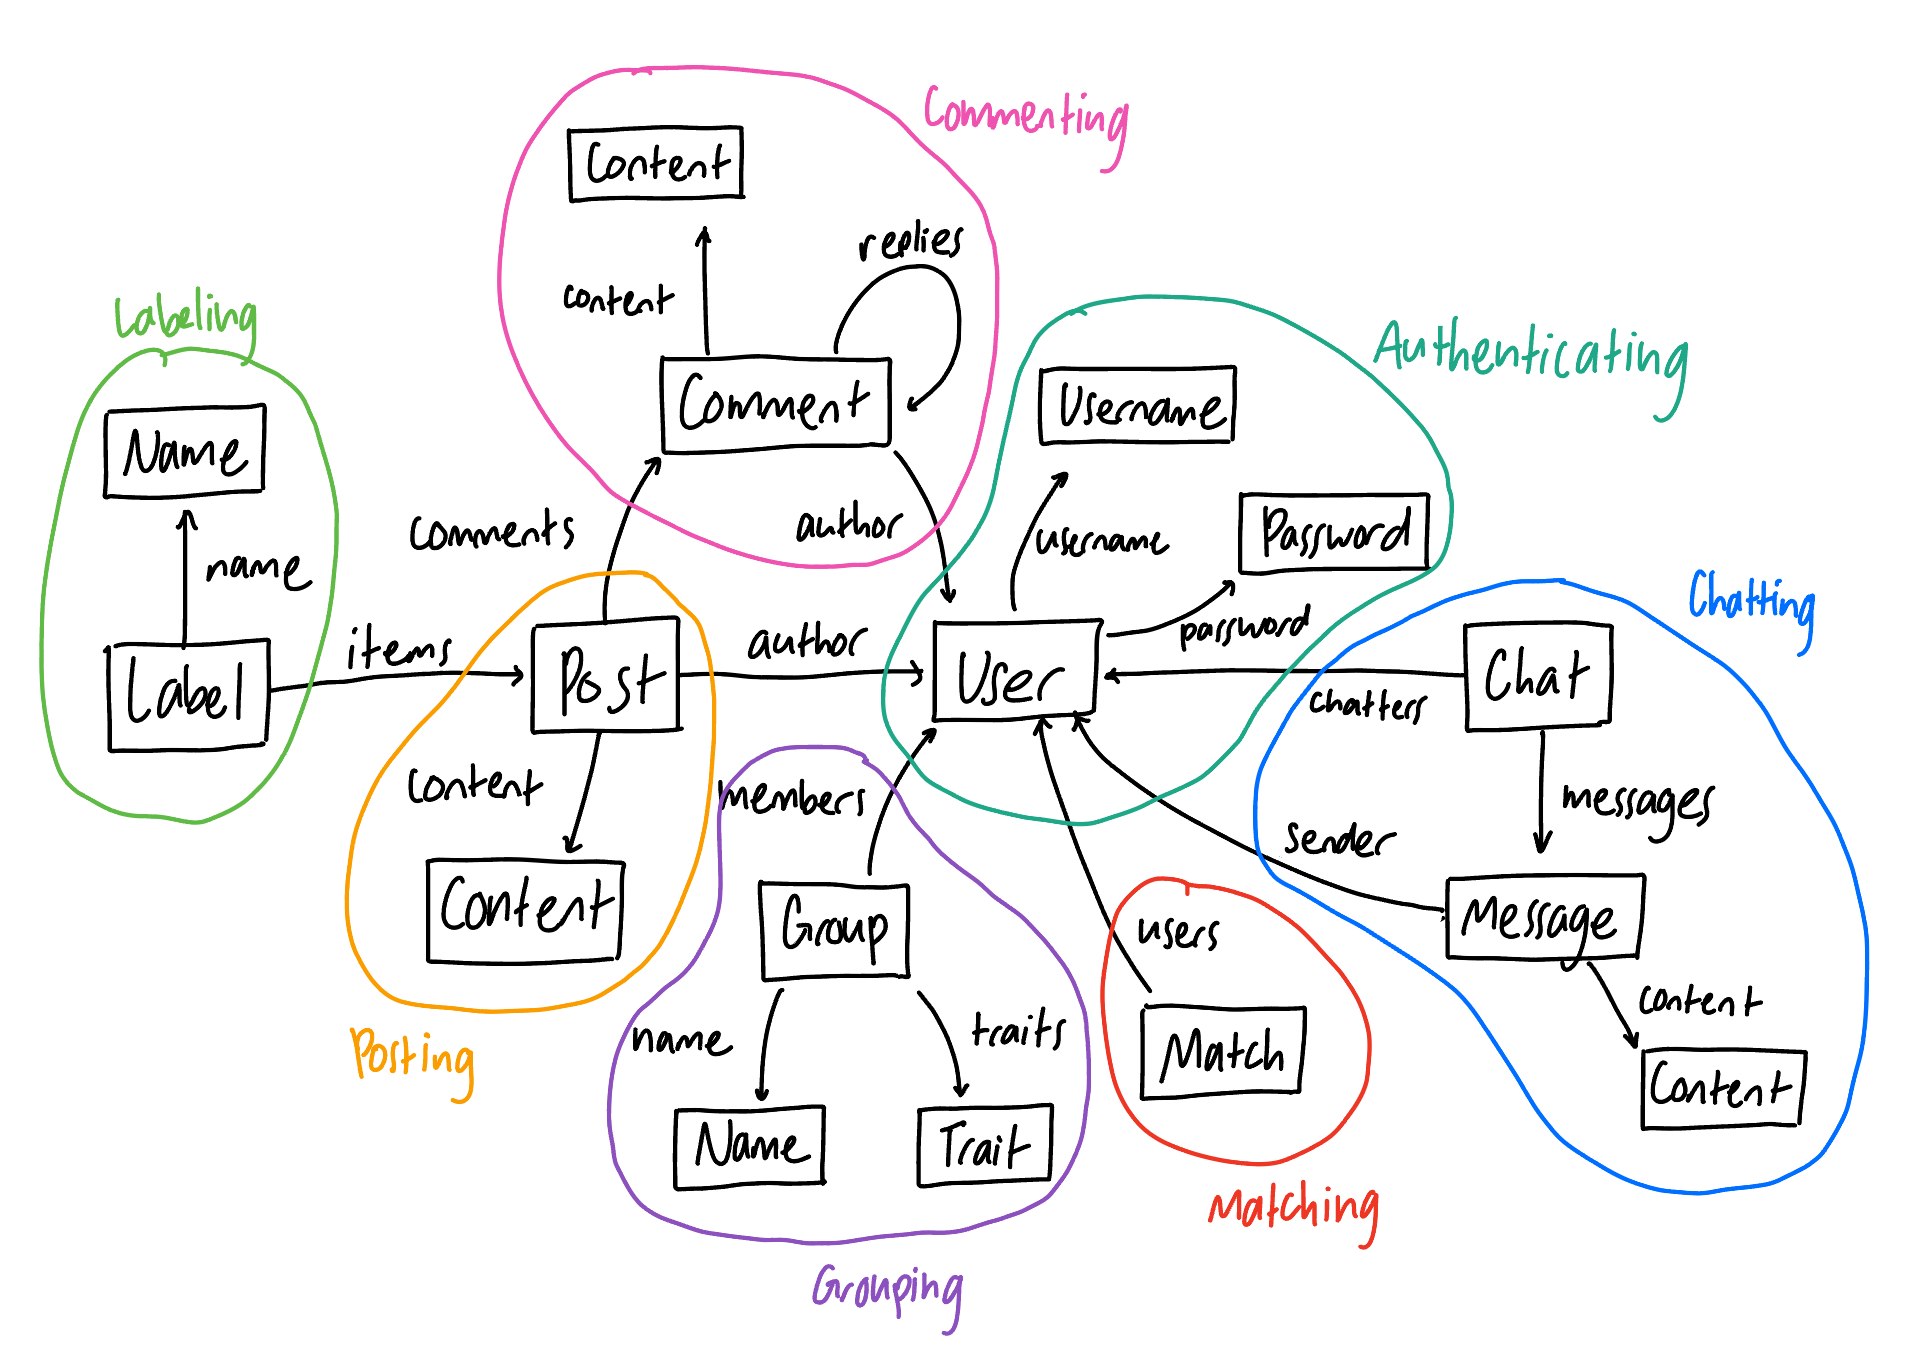
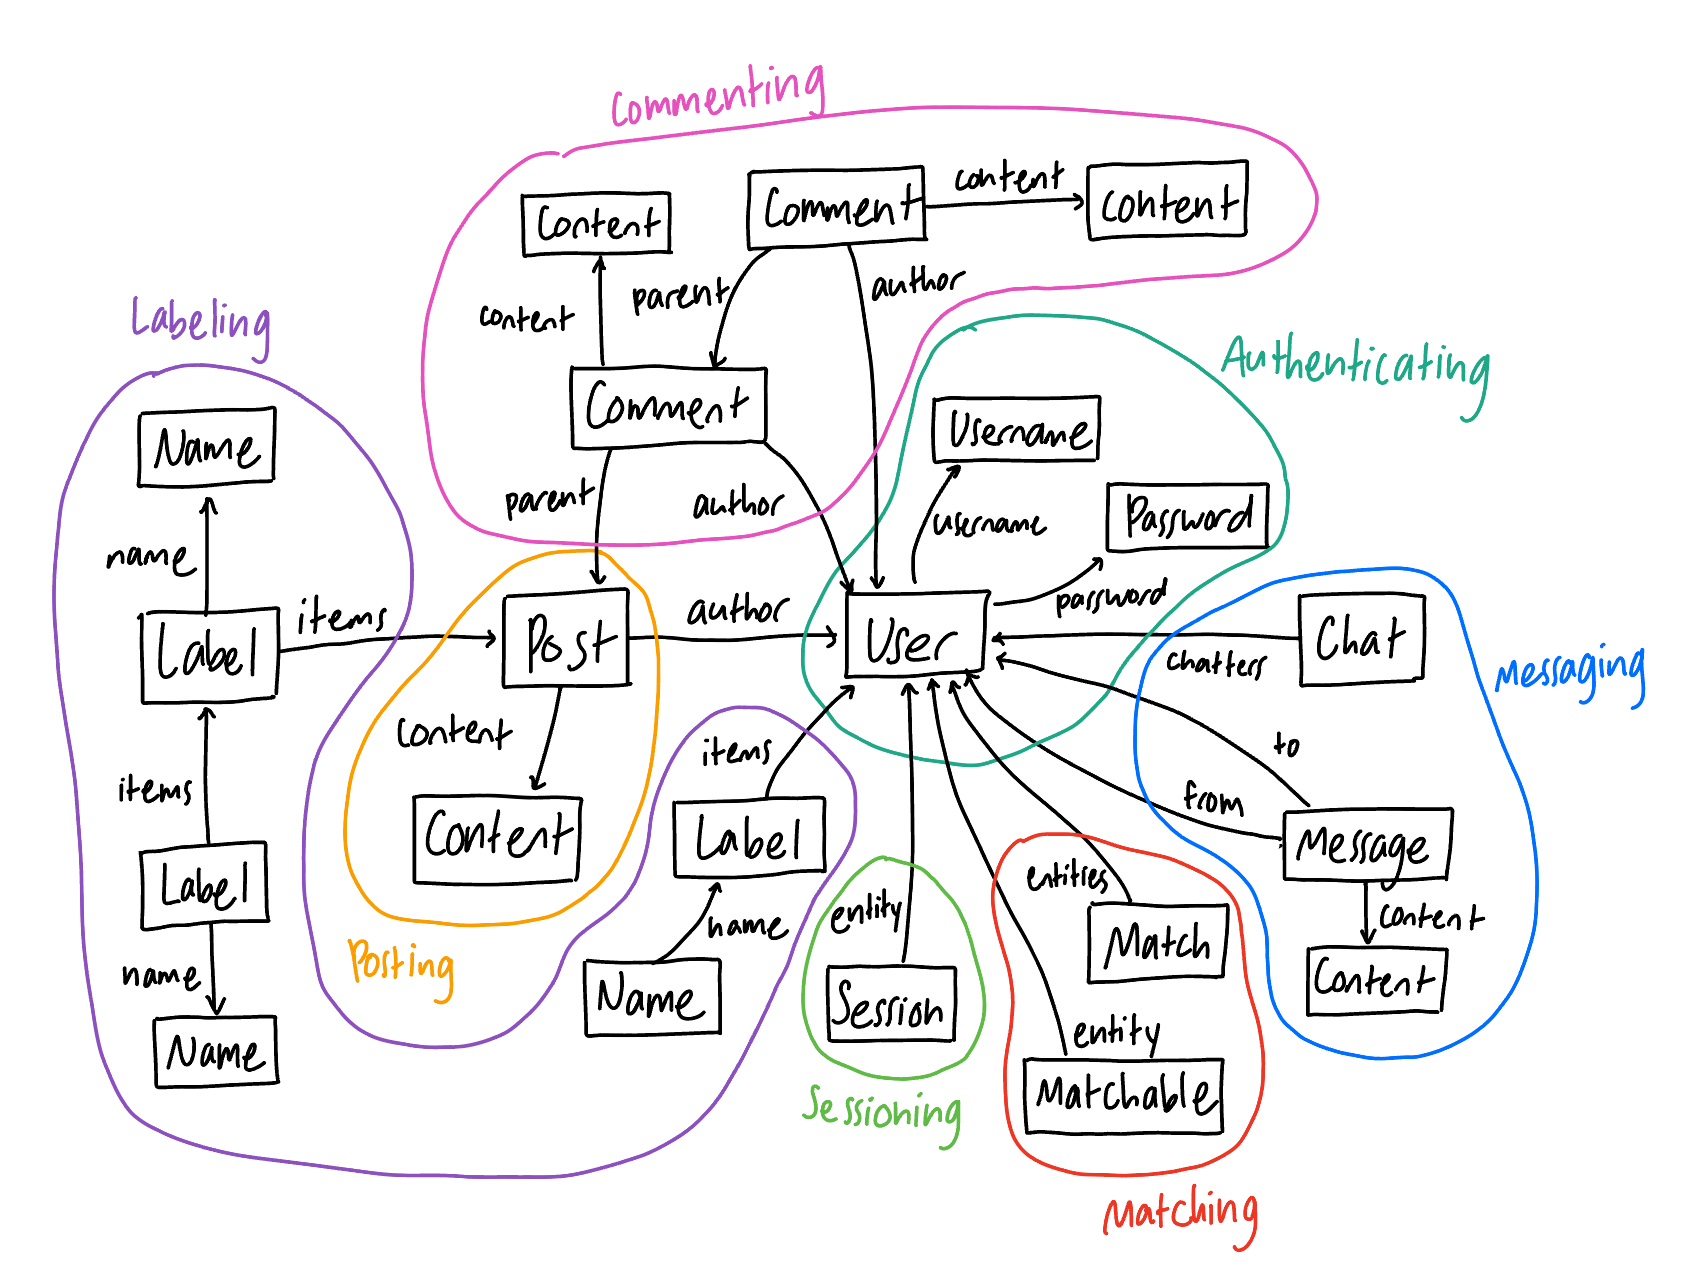
Assignment 4 updated

diff --git a/docs/assignments/assignment4.md b/docs/assignments/assignment4.md
@@ -6,6 +6,81 @@ layout: doc
 # Assignment 4
 
 ## Data Modeling
-I'm using the same abstract data models that I defined in my last assignment, which can be found [here](https://carladuong.github.io/portfolio-carla/assignments/assignment3.html).
+**Name**: Posting [Author] \
+**State**: 
+* posts: set Post
+* author: posts -> one Author
+* content: posts -> one string
+
+
+**Name**: Labeling [Item] \
+**State**:
+* labels: set Label
+* labelName: labels -> one string
+* items: labels -> set Item
+
+
+**Name**: Messaging [Entity] \
+**State**: 
+* messages: set Message
+* from: messages -> one Entity
+* to: messages -> one Entity
+* content: messages -> one string
+* chats: set Chat
+* chatters: chats -> two Entity
+
+
+**Name**: Commenting [Author, Item] \
+**State**: 
+* comments: set Comment
+* parent: comments -> one Item
+* content: comments -> one string
+* author: comments -> one Author
+
+
+**Name**: Authenticating \
+**State**:
+* registered: set User
+* username: registered -> one string
+* password: registered -> one string
+
+
+**Name**: Sessioning [Entity] \
+**State**:
+* active: set Session
+* entity: active -> one Entity
+
+
+**Name**: Matching [Entity] \
+**State**:
+* matches: set Match
+* entities: matches -> two Entity
+* matchable: set Entity
+
+
+app **Ginger** \
+include Posting [User] \
+include Labeling [Post] \
+include Labeling [User] \
+include Labeling [Label] \
+include Messaging [User] \
+include Commenting [User, Post] \
+include Commenting [User, Comment] \
+include Authenticating \
+include Sessiong [User] \
+include Matching [User] \
+
 
 ![Data Diagram](/../assets/images/data_diagram.png)
+
+
+## Code and Deployment
+The GitHub repo with my backend code can be found [here](https://github.com/carladuong/ginger), and the deployment can be found [here](ginger-kappa.vercel.app). If the deployment link doesn't work, please try going to this website: ginger-kappa.vercel.app
+
+
+## Design Reflection
+While implementing my backend service, I realized that the abstract data models that I had originally designed for some of my concepts were too complex or infeasible in practice. For example, my original Messaging concept involved a type called Chat, which would map to a set of objects of type Message. These nested types were clunky to implement in practice, and because of this I had to simplify my abstract data model so that the Messaging concept was responsible for a set of Chats and a separate set of Messages. 
+
+Another example was my Matching concept. I originally planned to implement the matching behavior as an action within the Matching concept, but because users are matched based on the communities that they are a part of (i.e. the Labels they assign themselves), I realized that the matching behavior would be more feasible to implement if I could use methods that belonged to the Labeling concept. Because of this, I simplified the Matching concept so that it just handled the pairing of two entities, and I synchronized Matching and Labeling to implement the matching behavior.
+
+Perhaps the most drastic change I made was removing the Grouping concept that I had originally planned for. While I was implementing it, I realized that the code for Grouping and Labeling were very similar. Because of this, I ended up removing the Grouping concept and absorbing the functionality into the Labeling concept. Though this did save a lot of repetitive code, I might have kept Grouping as a separate concept if I had more time for a project with a larger scope, as I believe it is more intuitive to think about associating a set of users this way, and it would be easier to store data such as traits of the group’s users.
